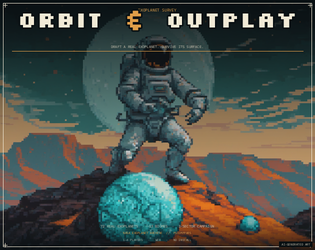
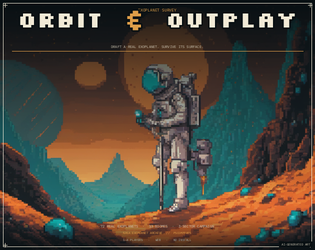
checkpoint: auto 22:27:47

diff --git a/tools/gen_cover.py b/tools/gen_cover.py
@@ -34,6 +34,17 @@ BASE_W, BASE_H = 1280, 1024
 HIRES_W, HIRES_H = 1920, 1536
 
 PROMPTS = {
+    "e": (
+        "store cover art for a turn-based exoplanet survey game, "
+        "isometric tactical map diorama floating in a dark sky, alien tidal marsh: "
+        "pale violet and mauve mineral ground, shallow teal channels full of flat water, "
+        "black basalt spires with thin cyan beacon lights, scattered reeds and shell crust, "
+        "a boxy survey lander with a high-gain dish on a raised shelf and a trail of glowing data nodes, "
+        "a large ringed planet and two small moons above the diorama, soft fog at the edges, "
+        "bright rose, violet and emerald palette with burnt-orange accents, "
+        "even lighting, crisp pixel-art edges, wide composition with calm dark sky at the top, "
+        "16-bit pixel-art illustration, no text, no letters, no UI, no frame"
+    ),
     "d": (
         "cover illustration for a turn-based exoplanet survey game, "
         "alien tidal marsh under a teal and heliotrope sky, shallow reflective water broken by "

diff --git a/tools/compose_cover.py b/tools/compose_cover.py
@@ -70,8 +70,9 @@ def main() -> None:
     # 1280x1024 -> 630x500 (1.26:1). A small crop, never a screenshot crop.
     im = ImageOps.fit(im, (630, 500), method=Image.Resampling.LANCZOS,
                       centering=(0.52, 0.50))
-    im = ImageEnhance.Contrast(im).enhance(1.035)
-    im = ImageEnhance.Color(im).enhance(1.04)
+    im = ImageEnhance.Brightness(im).enhance(1.06)
+    im = ImageEnhance.Contrast(im).enhance(1.07)
+    im = ImageEnhance.Color(im).enhance(1.12)
     im = im.convert("RGBA")
 
     top_gradient(im, 200, 246)
